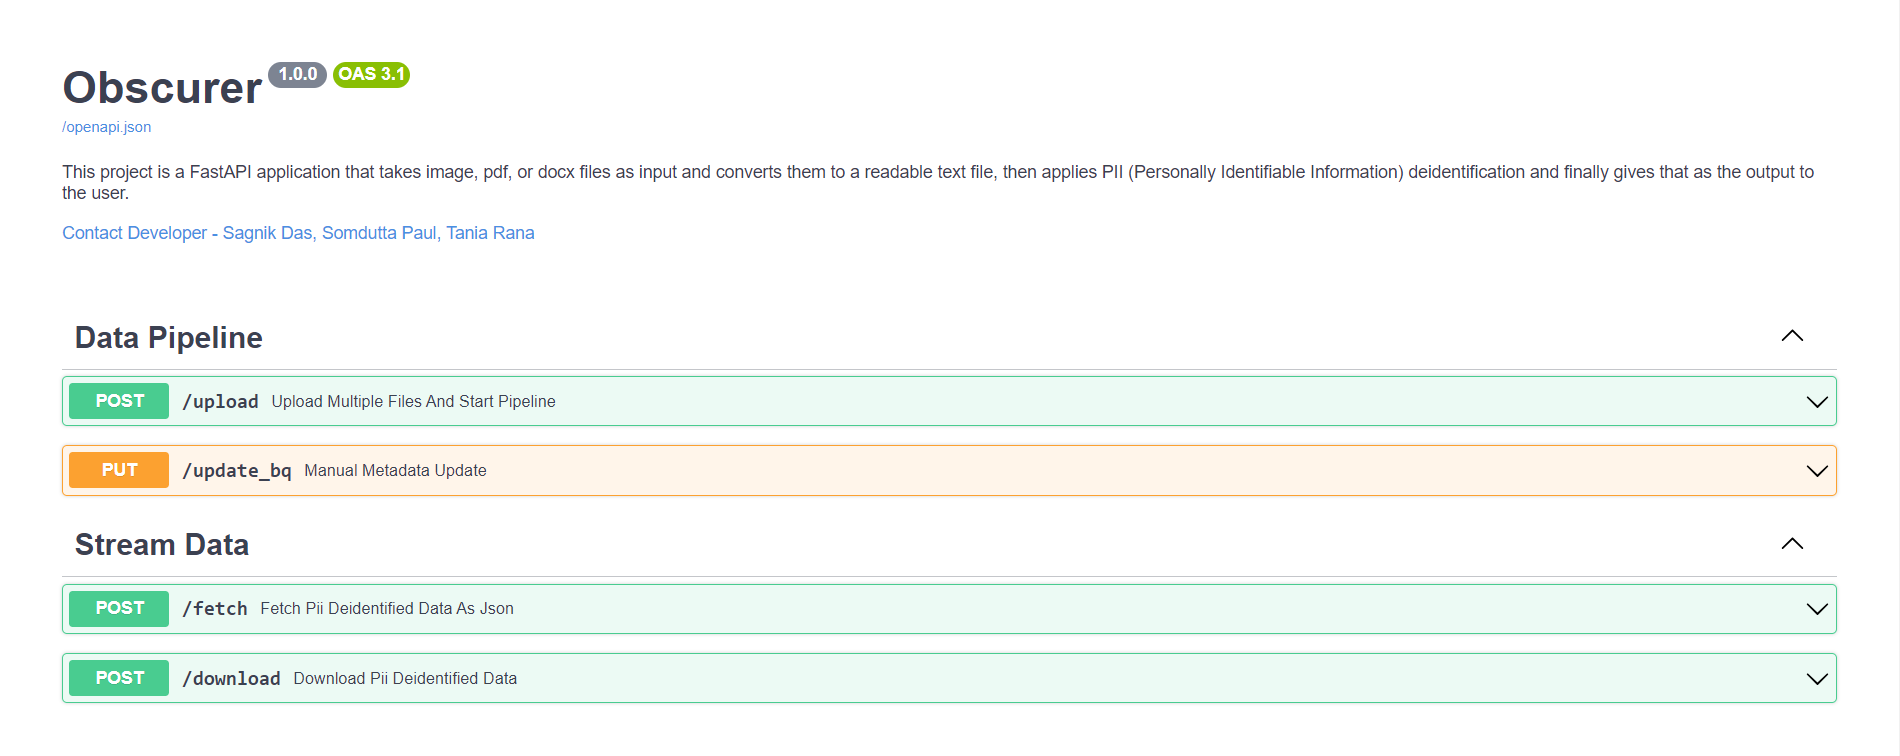
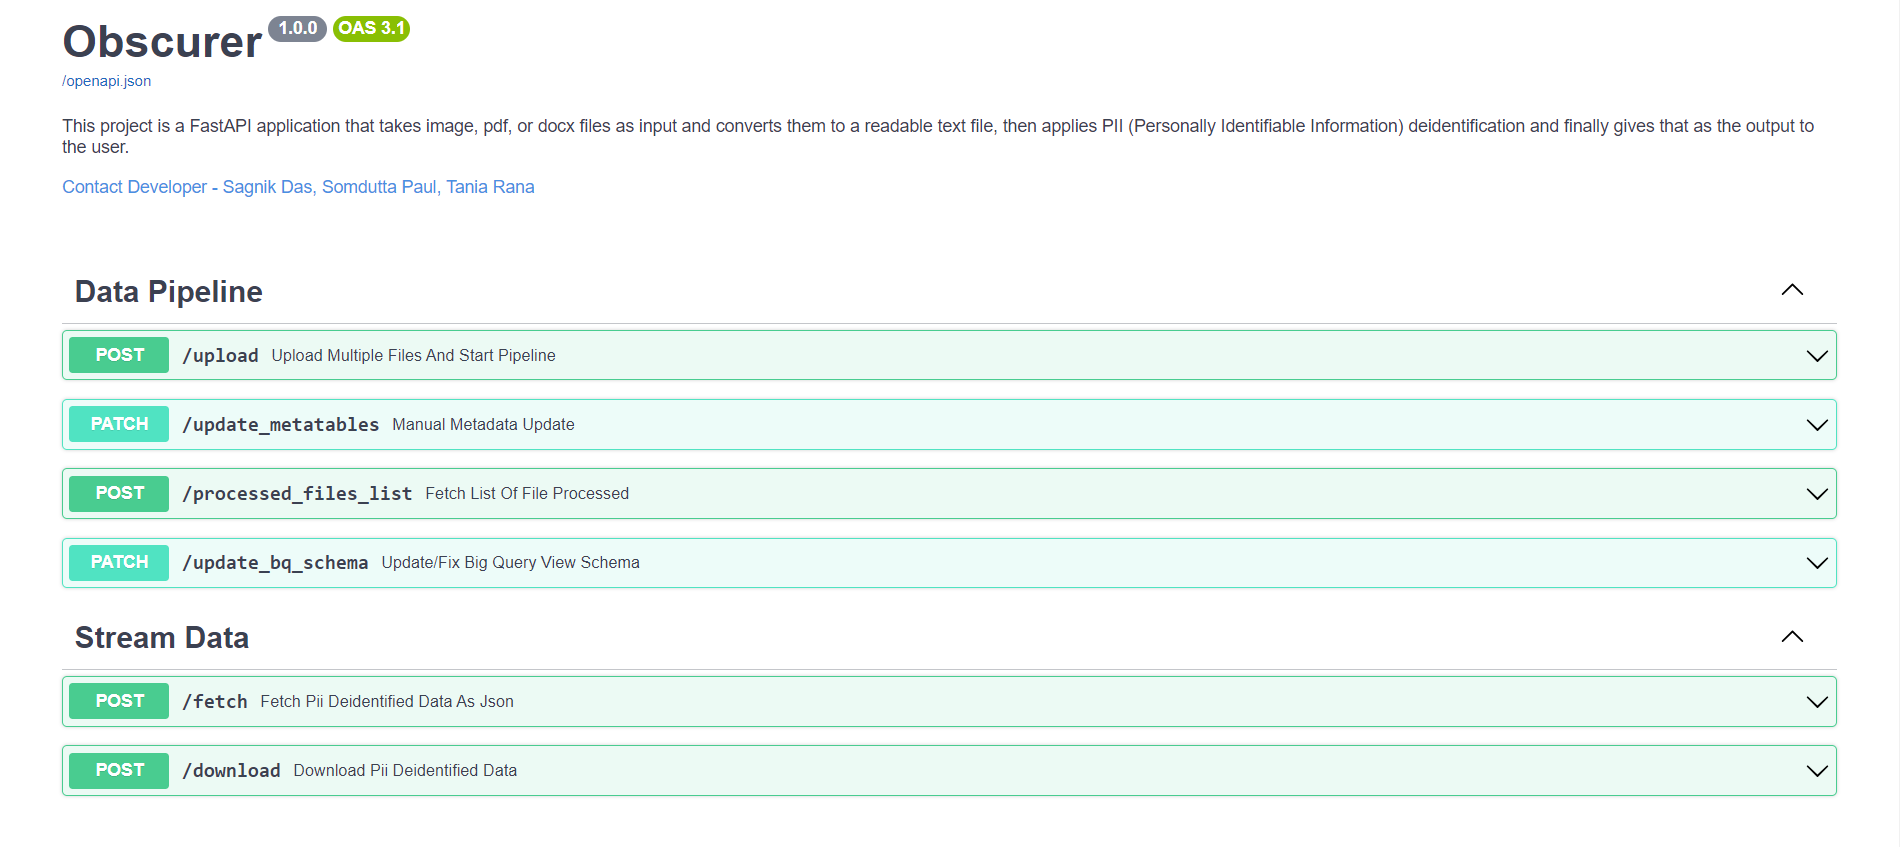
Cosmetic Changes

diff --git a/main.py b/main.py
@@ -18,7 +18,7 @@ import glob
 
 app = FastAPI(
     title="Obscurer",
-    description="This project is a FastAPI application that takes image, pdf, or docx files as input and converts them to a readable text file, then applies PII (Personally Identifiable Information) deidentification and finally gives that as the output to the user.",
+    description="Obscurer is a data pipeline application that uses FastAPI and Google Cloud Platform to perform text extraction and PII deidentification on PDF documents or images in the healthcare domain. It also helps identify documents that contain medicine names or compositions.",
     version="1.0.0",
     docs_url="/",
     redoc_url="/cw-redoc",

diff --git a/README.md b/README.md
@@ -1,12 +1,37 @@
-# Casadona Warriors Hackathon
-This project is a FastAPI application that takes image, pdf, or docx files as input and converts them to a readable text file, then applies PII (Personally Identifiable Information) deidentification and finally gives that as the output to the user.
+# Obscurer
+Obscurer is a data pipeline application that uses FastAPI and Google Cloud Platform to perform text extraction and PII deidentification on PDF documents or images in the healthcare domain. It also helps identify documents that contain medicine names or compositions.
+
+## Features
+- Upload PDF documents or images related to healthcare to Google Cloud Storage
+- Extract text from PDF documents or images using Google Cloud Documents AI
+- Deidentify PII (such as patient names, medical records, insurance numbers, etc.) from the extracted text using Google Cloud DLP API
+- Analyze entities and entity sentiments from the deidentified text using Google Cloud Natural Language API
+- Identify medicine names or compositions from the entities using a custom dictionary
+- Store the results in Google BigQuery tables
+- Query the results using a FastAPI web service
+
+## How to use
+- Clone this repository to your local machine
+- Create a Google Cloud project and enable the required APIs (Documents AI, DLP, Natural Language, BigQuery, App Engine)
+- Set up authentication using a service account and a service account key
+- Configure the environment variables in the .env file
+- Run the main.py script to start the data pipeline
+- Visit the web service URL to upload documents and query results
 
 ## Installation
-To install the required dependencies, run the following command in your terminal:
+To install the required dependencies and setup App Engine environment, run the following command in your terminal:
 
-```pip install -r requirements.txt```
+```bash
+git clone https://github.com/sagnik-sudo/Obscurer.git
+cd Obscurer/
+python -m venv ./env
+gcloud config set project <PROJECT_ID>
+source env/bin/activate
+pip install -r requirements.txt
+gcloud app deploy --no-cache -v 2
+gcloud app logs tail -s default
+```
 
-This will install FastAPI, Uvicorn, PyTesseract, pdf2image, docx2txt, and google cloud modules.
 
 ## Authentication
 
@@ -25,20 +50,24 @@ To authorize the gcloud CLI with a service account using external credentials fr
 
 4. To activate your service account, run gcloud auth login with the --cred-file flag:
 
-    ```gcloud auth login --cred-file=creds.json```
+    ```bash
+    gcloud auth login --cred-file=creds.json
+    ```
 
 ## Running the code
 ### Development environment
 
 To run the code in a development environment, use Uvicorn as follows:
 
-```python -m uvicorn main:app --reload --port 7777```
+```bash
+python -m uvicorn main:app --reload --port 7777
+```
 
 This will start a local server at `http://127.0.0.1:7777`. You can access the interactive documentation at `http://127.0.0.1:7777`.
 
 To test the application, you can use the curl command or any HTTP client. For example:
 
-```
+```bash
 curl -X 'POST' \
   'http://127.0.0.1:7777/upload-file/' \
   -H 'accept: application/json' \
@@ -52,23 +81,21 @@ This will upload your file to the server and return a JSON response with the dei
 To run the code in a production environment, you can deploy it to Google App Engine using the following steps:
 
 - Create an app.yaml file in your project directory with the following content:
-```
-runtime: python
-env: flex
-entrypoint: gunicorn -w 4 -k uvicorn.workers.UvicornWorker main:app
+```yaml
+runtime: python39
+entrypoint: uvicorn main:app --host=0.0.0.0 --port=${PORT:-8080}
 
 handlers:
 - url: /.*
   script: auto
-
-runtime_config:
-  python_version: 3
 ```
 - Run the following command to deploy your app:
 
-```gcloud app deploy```
+```bash
+gcloud app deploy
+```
 
-This will create a URL for your app, such as `https://your-project-id.appspot.com.` You can access the interactive documentation at `https://your-project-id.appspot.com/docs`.
+This will create a URL for your app, such as `https://your-project-id.appspot.com.`
 
 To test the application, you can use the same curl command or any HTTP client as before, but with the new URL.
 
